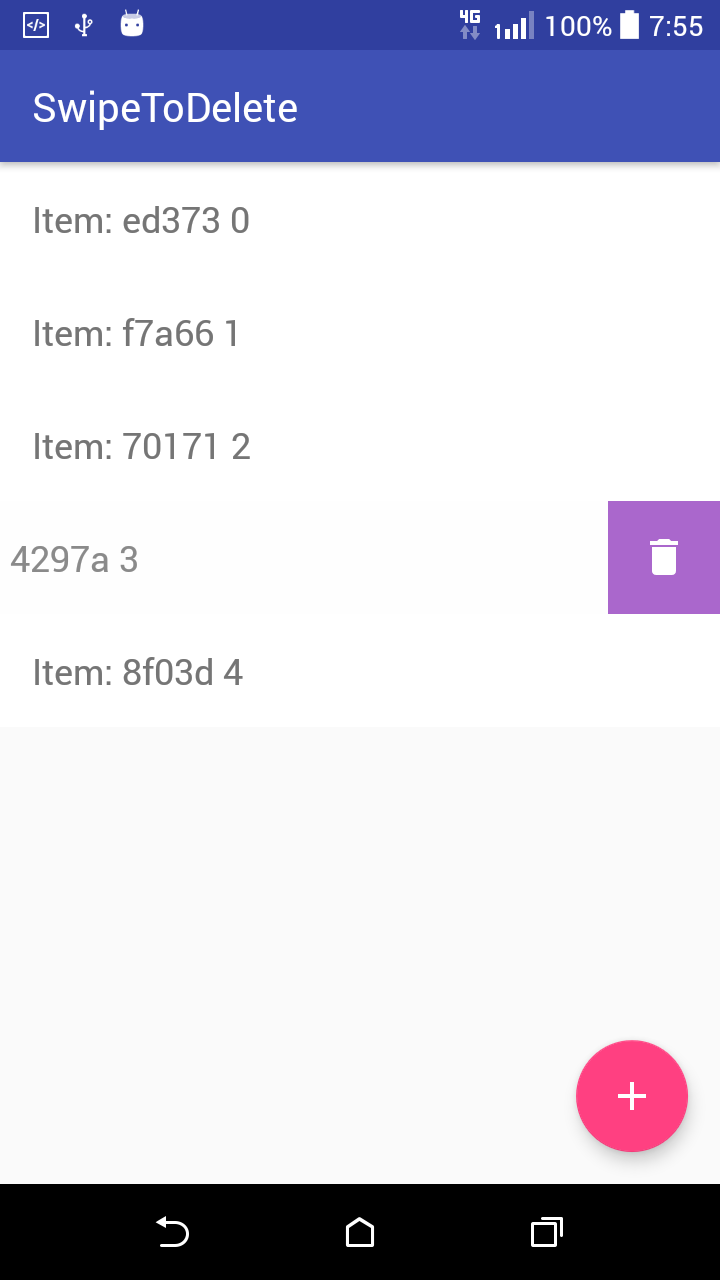
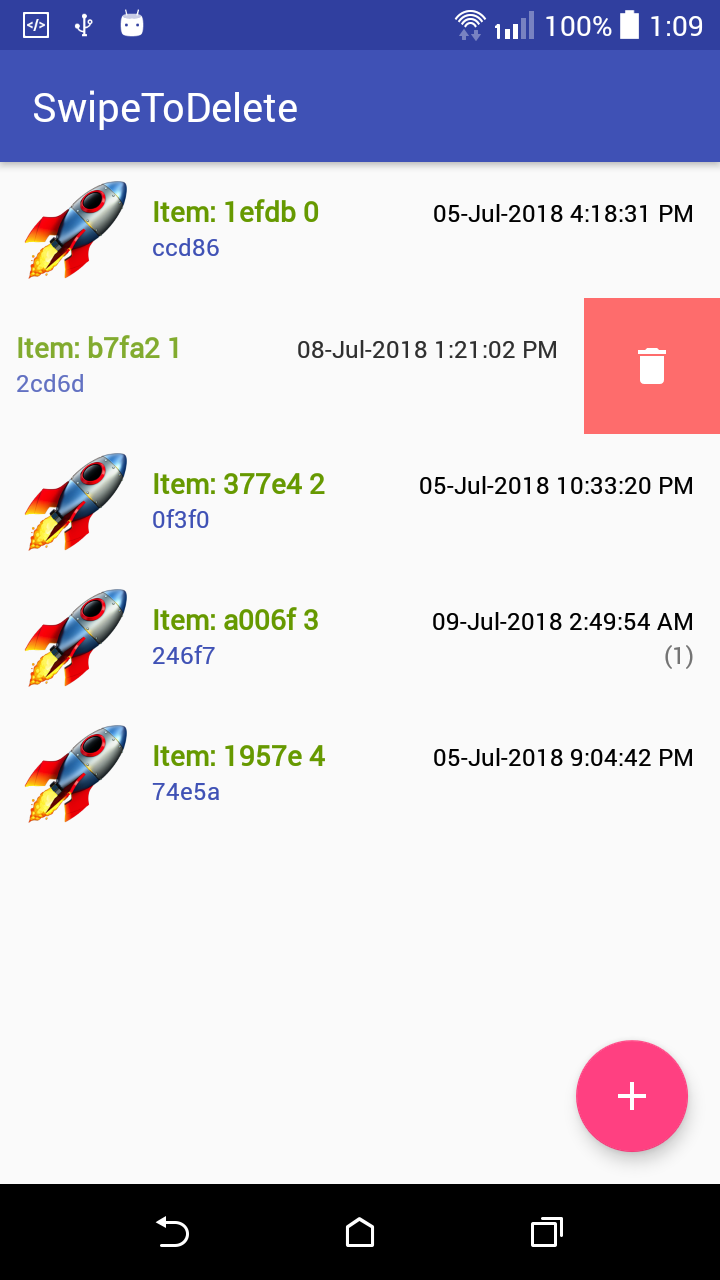
fix runaway UI

diff --git a/app/src/main/java/com/softwarejoint/sample/MainActivity.java b/app/src/main/java/com/softwarejoint/sample/MainActivity.java
@@ -1,5 +1,6 @@
 package com.softwarejoint.sample;
 
+import android.content.Context;
 import android.graphics.drawable.Drawable;
 import android.os.Bundle;
 import android.os.Handler;
@@ -47,6 +48,7 @@ public class MainActivity extends AppCompatActivity implements View.OnClickListe
         Drawable deleteIcon = ContextCompat.getDrawable(this, R.drawable.ic_delete_white_24);
         //noinspection ConstantConditions
         swipeTouchHelper = new SwipeTouchHelper(recyclerView, deleteIcon, this);
+        swipeTouchHelper.setSwipeBackGroundColor(ContextCompat.getColor(this, android.R.color.holo_red_light));
     }
 
     @Override

diff --git a/swipeactions/src/main/java/com/softwarejoint/swipeactions/SwipeTouchHelper.java b/swipeactions/src/main/java/com/softwarejoint/swipeactions/SwipeTouchHelper.java
@@ -199,7 +199,7 @@ public final class SwipeTouchHelper extends ItemTouchHelper.SimpleCallback imple
 
         if (isTouchInvalidated) return;
 
-        float absDx = Math.abs(dX) + initialSwipeDX;
+        float absDx = Math.abs(dX + initialSwipeDX);
 
         if (isCurrentlyActive) {
             if (absDx - swipeVisibleMark >= 0 && currentVelocity < mMaxSwipeVelocity) {
